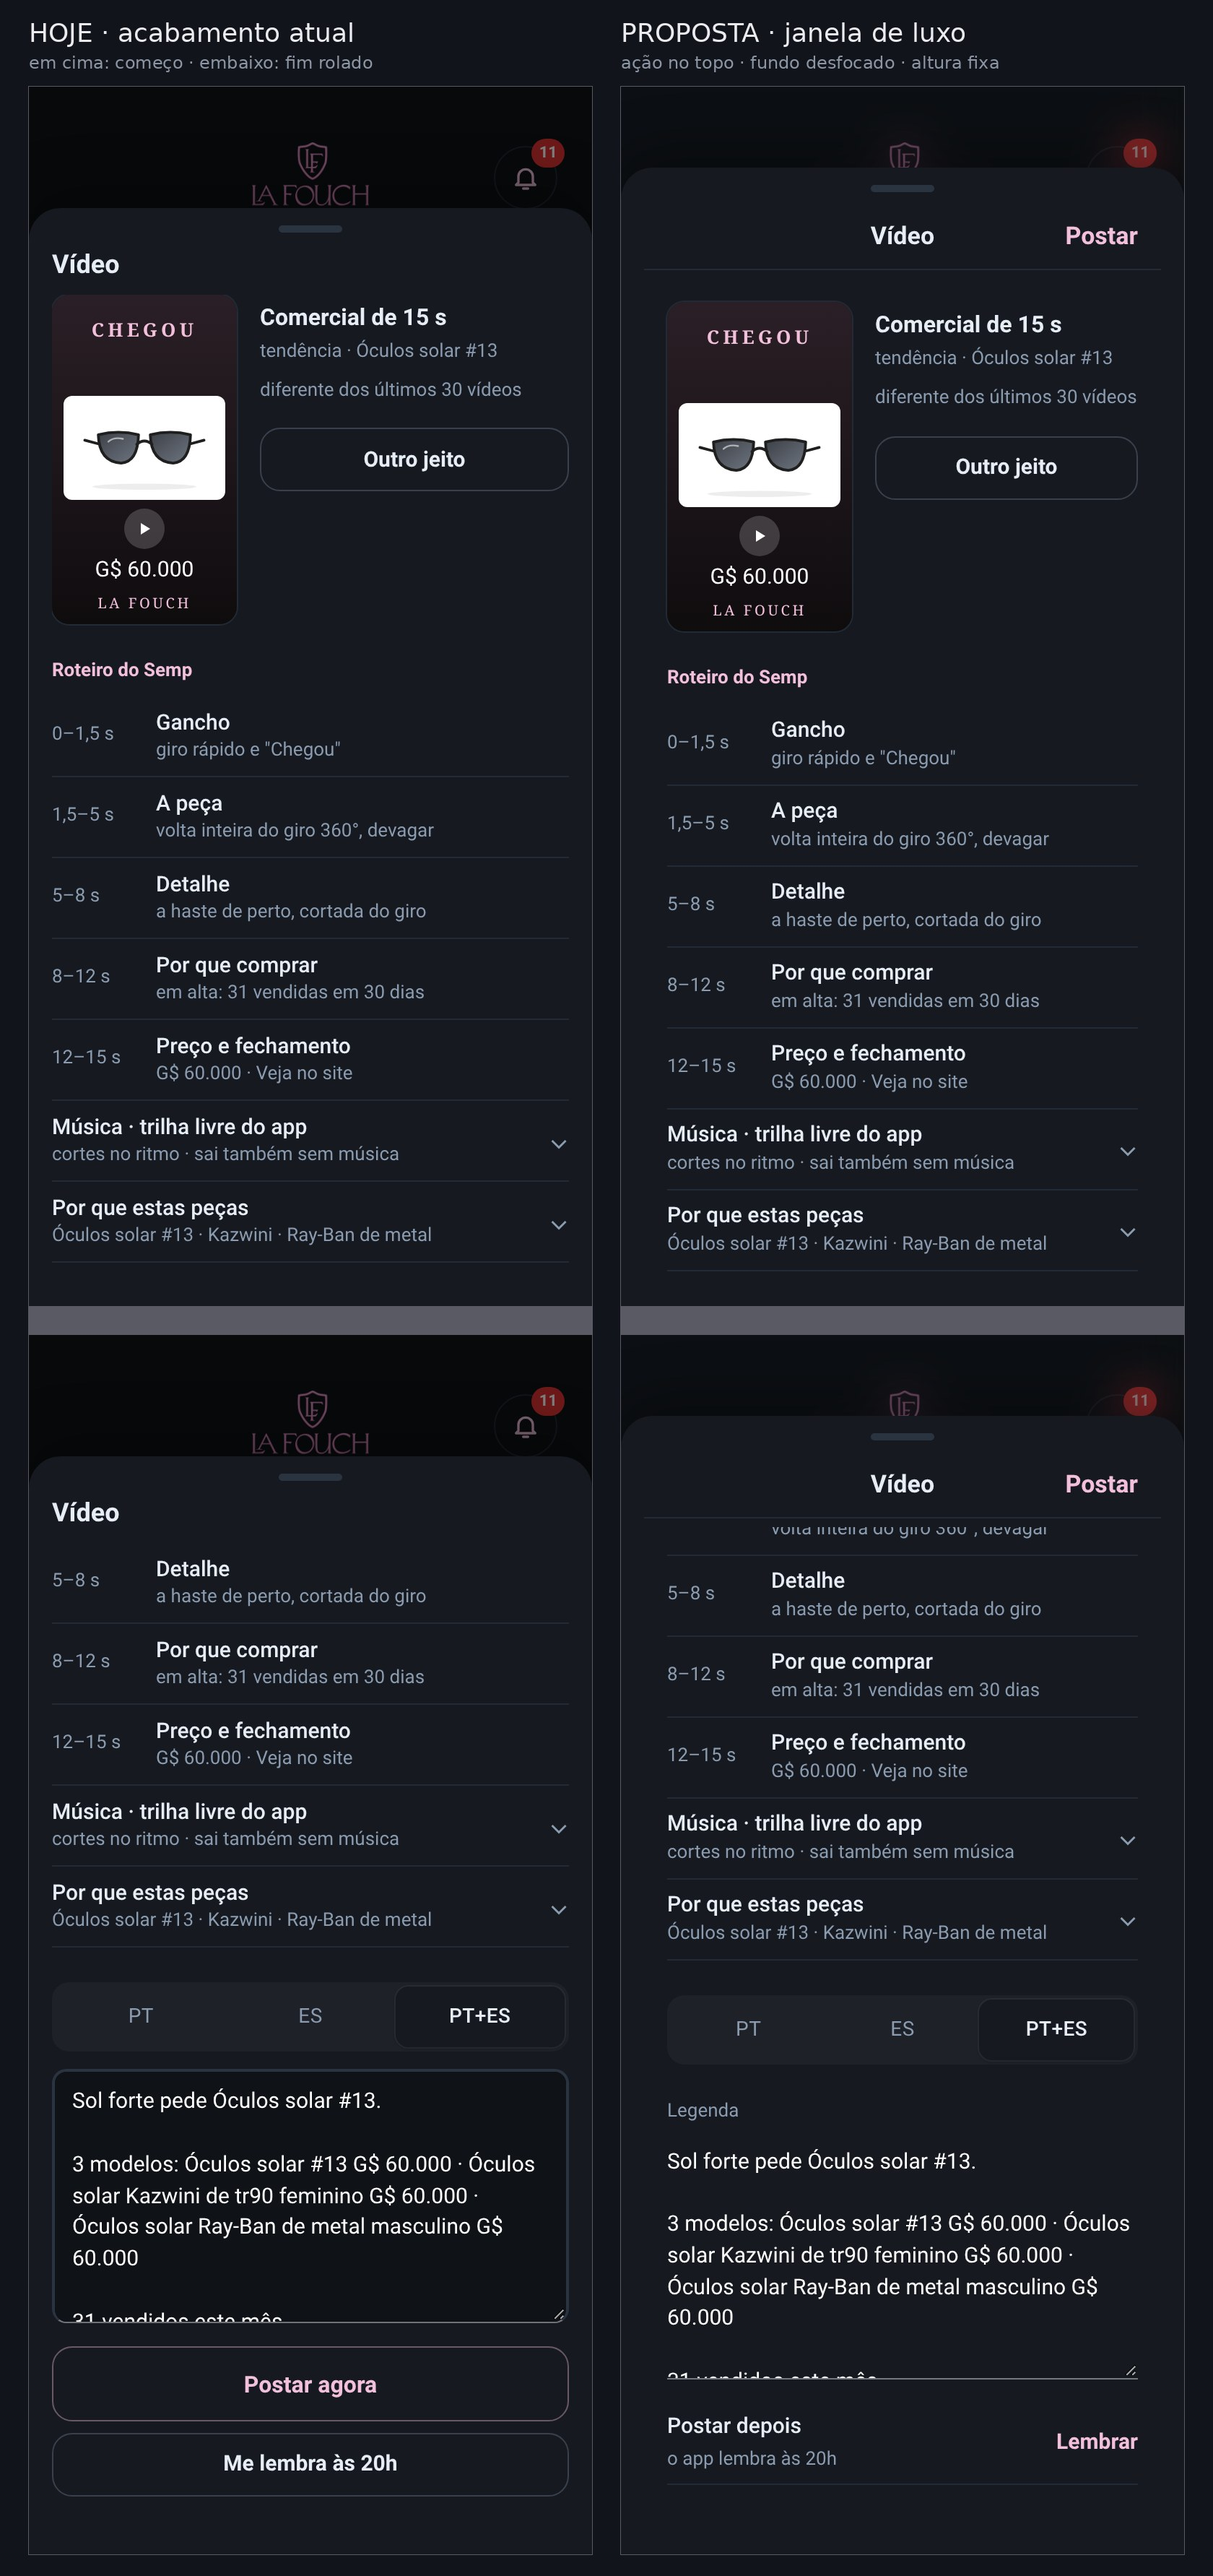
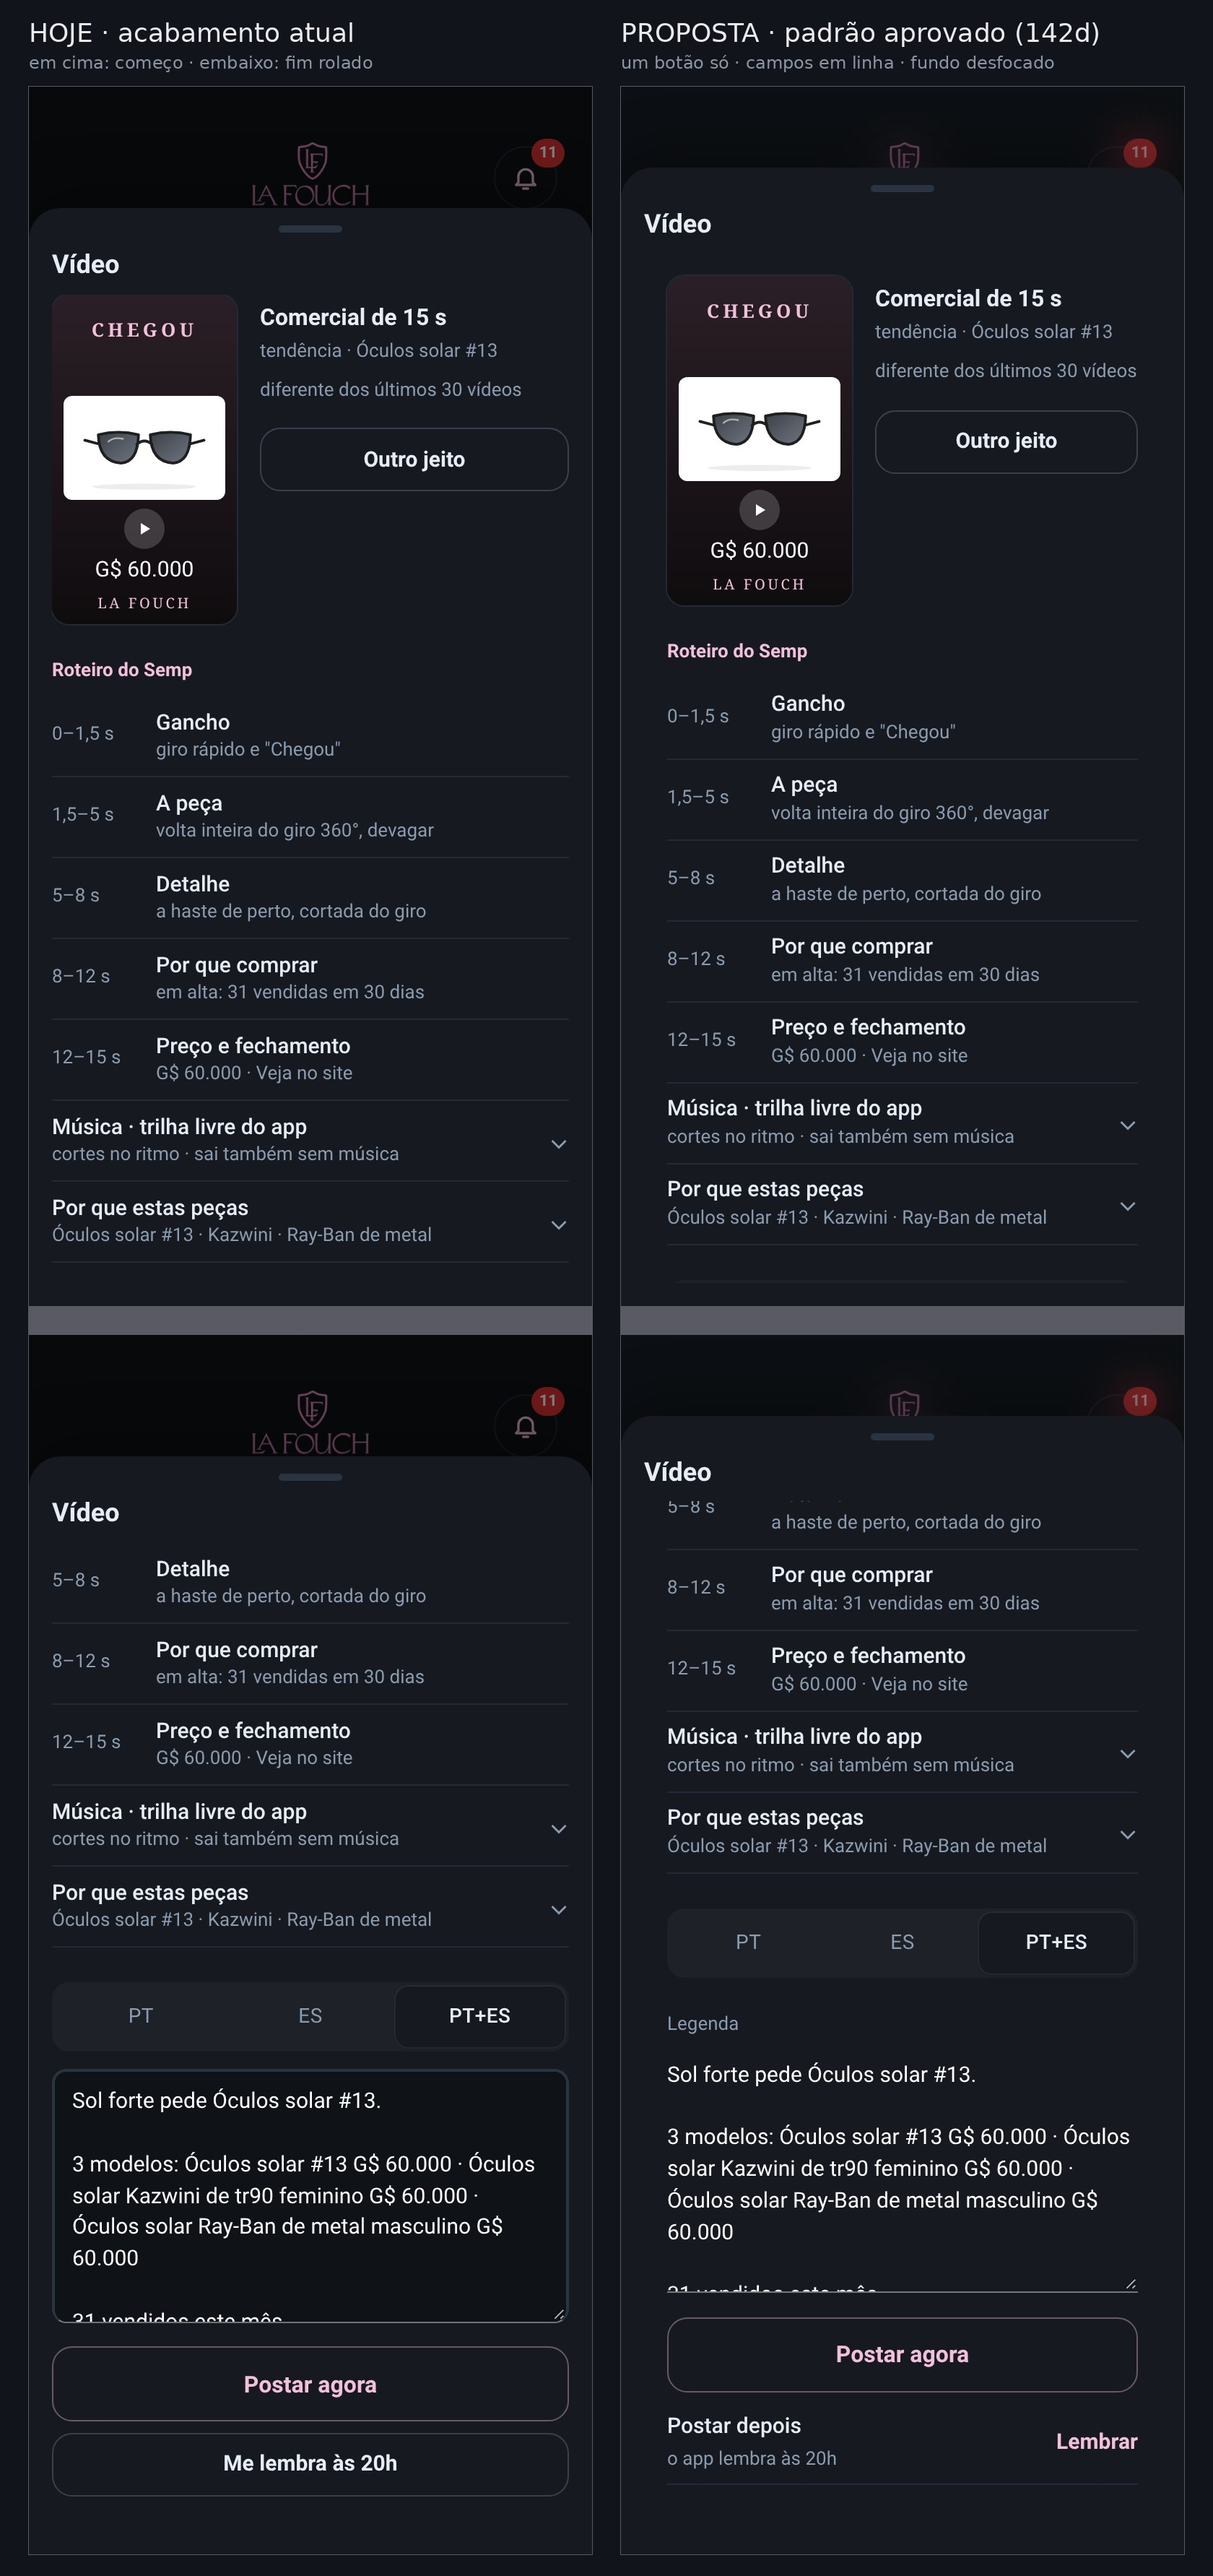
Esboço-ideia janela de baixo: padrão da loja (título à esquerda, um botão embaixo) + linha fina, fundo desfocado, altura fixa
Claude-Session: https://claude.ai/code/session_01Vj5GPRt4UBskC3w8v52h7G

diff --git a/work/semp/janela.py b/work/semp/janela.py
@@ -13,11 +13,8 @@ bk.style.backdropFilter='blur(14px) saturate(120%)';bk.style.webkitBackdropFilte
 // 2) altura fixa: "grande" = sobe até 56 px do topo (no PC: painel no centro, 560 de largura)
 if(pc){j.style.cssText+=';left:50%;right:auto;top:72px;bottom:auto;transform:translateX(-50%);width:560px;max-height:calc(100vh - 144px);border-radius:22px'}
 else{j.style.top='56px';j.style.height='calc(100vh - 56px)';j.style.maxHeight='none'}
-// 3) topo: título no centro, ação principal no canto direito, alça em cima; embaixo não fica nada
-const hd=j.querySelector('.ljHd');const ac=getComputedStyle(j.querySelector('#mkPost')).color;
-hd.style.cssText='display:grid;grid-template-columns:1fr auto 1fr;align-items:center;min-height:44px;padding:0 16px;border-bottom:1px solid var(--line2)';
-hd.innerHTML='<span></span><b style="font-size:17px;font-weight:600">Vídeo</b><span style="justify-self:end;font-size:17px;font-weight:600;color:'+ac+'">Postar</span>';
-j.querySelector('#mkPost').remove();
+// 3) topo e botão: os do padrão aprovado (título à esquerda, UM botão de ação embaixo — 142d); só o 'Me lembra' deixa de ser um 2º botão
+const ac=getComputedStyle(j.querySelector('#mkPost')).color;
 // 4) "Me lembra" vira uma linha fina, como as outras
 const lm=j.querySelector('#mkLemb');const ln=document.createElement('div');
 ln.style.cssText='display:flex;align-items:center;justify-content:space-between;min-height:56px;border-bottom:1px solid var(--line2)';
@@ -51,7 +48,7 @@ with sync_playwright() as pw:
       pg.locator('#v-mkt button[data-cria=video]').first.click();w(1500);pg.evaluate(JS3,ft);w(300)
       if fase=='prop': pg.evaluate(LUXO,False)
       q.append(foto(pg,fase+n,390,844));b.close()
-    quadro('esboco_janela_luxo_celular_%s.jpg'%n,esc,[('HOJE · acabamento atual','em cima: começo · embaixo: fim rolado',q[0]),('PROPOSTA · janela de luxo','ação no topo · fundo desfocado · altura fixa',q[1])],780)
+    quadro('esboco_janela_luxo_celular_%s.jpg'%n,esc,[('HOJE · acabamento atual','em cima: começo · embaixo: fim rolado',q[0]),('PROPOSTA · padrão aprovado (142d)','um botão só · campos em linha · fundo desfocado',q[1])],780)
   # PC: painel no centro
   q=[]
   for fase in ('hoje','prop'):
@@ -62,5 +59,5 @@ with sync_playwright() as pw:
     im=foto(pg,'pc'+fase,1440,900);q.append(im.resize((im.width//2,im.height//2)) if im.width>1600 else im);b.close()
   S=Image.new('RGB',(q[0].width+80,q[0].height*2+300),(17,20,26));d=ImageDraw.Draw(S)
   d.text((40,24),'HOJE · PC',font=F(36),fill=(235,235,240));S.paste(q[0],(40,90))
-  y=q[0].height+150;d.text((40,y-60),'PROPOSTA · PC: painel no centro, mesma janela',font=F(36),fill=(235,235,240));S.paste(q[1],(40,y))
+  y=q[0].height+150;d.text((40,y-60),'PROPOSTA · PC: painel no centro, mesmo padrão',font=F(36),fill=(235,235,240));S.paste(q[1],(40,y))
   S.save(O+'esboco_janela_luxo_pc_escuro.jpg',quality=85);print('ok pc',S.size)
